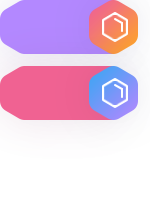
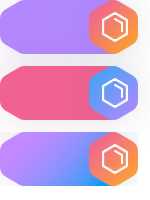
third badge fixed

Changed region(s): [[0.0, 0.66, 0.9333, 0.93]]

diff --git a/css/main.css b/css/main.css
@@ -1,1 +1,1 @@
-@font-face{font-family:"MarmeladRegular";src:url("../fonts/MarmeladRegular/MarmeladRegular.eot");src:url("../fonts/MarmeladRegular/MarmeladRegular.eot?#iefix") format("embedded-opentype"), url("../fonts/MarmeladRegular/MarmeladRegular.woff") format("woff"), url("../fonts/MarmeladRegular/MarmeladRegular.ttf") format("truetype");font-style:normal;font-weight:normal}@font-face{font-family:"LatoRegular";src:url("../fonts/LatoRegular/LatoRegular.eot");src:url("../fonts/LatoRegular/LatoRegular.eot?#iefix") format("embedded-opentype"), url("../fonts/LatoRegular/LatoRegular.woff") format("woff"), url("../fonts/LatoRegular/LatoRegular.ttf") format("truetype");font-style:normal;font-weight:normal}@font-face{font-family:"LatoLight";src:url("../fonts/LatoLight/LatoLight.eot");src:url("../fonts/LatoLight/LatoLight.eot?#iefix") format("embedded-opentype"), url("../fonts/LatoLight/LatoLight.woff") format("woff"), url("../fonts/LatoLight/LatoLight.ttf") format("truetype");font-style:normal;font-weight:normal}@font-face{font-family:"RobotoRegular";src:url("../fonts/RobotoRegular/RobotoRegular.eot");src:url("../fonts/RobotoRegular/RobotoRegular.eot?#iefix") format("embedded-opentype"), url("../fonts/RobotoRegular/RobotoRegular.woff") format("woff"), url("../fonts/RobotoRegular/RobotoRegular.ttf") format("truetype");font-style:normal;font-weight:normal}@font-face{font-family:"RobotoBold";src:url("../fonts/RobotoBold/RobotoBold.eot");src:url("../fonts/RobotoBold/RobotoBold.eot?#iefix") format("embedded-opentype"), url("../fonts/RobotoBold/RobotoBold.woff") format("woff"), url("../fonts/RobotoBold/RobotoBold.ttf") format("truetype");font-style:normal;font-weight:normal}*{margin:0px auto;padding:0px;outline:none;-webkit-box-sizing:border-box;-moz-box-sizing:border-box;box-sizing:border-box}body{font-size:16px;font-family:'LatoRegular'}article,aside,details,figcaption,figure,footer,header,hgroup,main,menu,nav,section,summary{display:block}.cfix:after,.cfix:before{content:" ";display:table}.cfix:after{clear:both}.container{max-width:1600px;width:100%;padding:0px 20px;position:relative}.container:after,.container:before{content:" ";display:table}.container:after{clear:both}.flex{display:-webkit-box;display:-webkit-flex;display:-ms-flexbox;display:flex}.row{position:relative}.row:after,.row:before{content:" ";display:table}.row:after{clear:both}fieldset,input[type=submit]{border:0;background:0 0}a,a:active,a:focus,a:hover,a:visited{color:inherit;text-decoration:none}a img{color:inherit;text-decoration:none}img{max-width:100%}ul{padding:0;margin:0}ul li{list-style:none}.bold,b,strong{font-weight:normal;font-family:'RobotoBold'}.fll{float:left}.flr{float:right}.displnone{display:none}.hidden{opacity:0;visibility:hidden}.visible{visibility:visible;opacity:1}.col-1{min-height:1px;float:left;width:8.333333333333334%}.col-2{min-height:1px;float:left;width:16.666666666666668%}.col-3{min-height:1px;float:left;width:25%}.col-4{min-height:1px;float:left;width:33.333333333333336%}.col-5{min-height:1px;float:left;width:41.666666666666664%}.col-6{min-height:1px;float:left;width:50%}.col-7{min-height:1px;float:left;width:58.333333333333336%}.col-8{min-height:1px;float:left;width:66.66666666666667%}.col-9{min-height:1px;float:left;width:75%}.col-10{min-height:1px;float:left;width:83.33333333333333%}.col-11{min-height:1px;float:left;width:91.66666666666667%}.col-12{min-height:1px;float:left;width:100%}.col-1-x{min-height:1px;float:left;width:8.333333333333334%}.col-2-x{min-height:1px;float:left;width:16.666666666666668%}.col-3-x{min-height:1px;float:left;width:25%}.col-4-x{min-height:1px;float:left;width:33.333333333333336%}.col-5-x{min-height:1px;float:left;width:41.666666666666664%}.col-6-x{min-height:1px;float:left;width:50%}.col-7-x{min-height:1px;float:left;width:58.333333333333336%}.col-8-x{min-height:1px;float:left;width:66.66666666666667%}.col-9-x{min-height:1px;float:left;width:75%}.col-10-x{min-height:1px;float:left;width:83.33333333333333%}.col-11-x{min-height:1px;float:left;width:91.66666666666667%}.col-12-x{min-height:1px;float:left;width:100%}@media (max-width:1600px){.container{max-width:1350px}}@media (max-width:1400px){.container{max-width:1140px}}@media (max-width:1200px){.container{max-width:980px}}@media (max-width:720px){.col-1{width:100%}.col-2{width:100%}.col-3{width:100%}.col-4{width:100%}.col-5{width:100%}.col-6{width:100%}.col-7{width:100%}.col-8{width:100%}.col-9{width:100%}.col-10{width:100%}.col-11{width:100%}.col-12{width:100%}}html{height:100%}body{height:100%}h1,h2,h3{font-weight:normal;font-family:'MarmeladRegular';color:#021b47}.job,.name,.subtitle,.text,.title,a,p{color:#021b47}button{cursor:pointer;color:#fff;font-family:'MarmeladRegular';border:0px}section.regular{padding:90px 0px}section h1,section h2{text-align:center;font-size:72px}section .subtitle{text-align:center;font-size:30px;font-family:'LatoRegular';padding:25px 0px 25px 0px}#first .width-wrapper{max-width:600px}#first header{padding:20px 0px}#first header .logo{-webkit-box-flex:1;-webkit-flex:1;-ms-flex:1;flex:1}#first header .menu{-webkit-box-flex:1;-webkit-flex:1;-ms-flex:1;flex:1}#first header .menu .width-wrapper{display:-webkit-box;display:-webkit-flex;display:-ms-flexbox;display:flex;-webkit-box-pack:justify;-webkit-justify-content:space-between;-ms-flex-pack:justify;justify-content:space-between;-webkit-box-align:center;-webkit-align-items:center;-ms-flex-align:center;align-items:center}#first header .menu a{margin:0;display:block;font-family:'RobotoBold'}#first header .menu img{margin:0;display:block}#first .about-container{-webkit-box-pack:center;-webkit-justify-content:center;-ms-flex-pack:center;justify-content:center;-webkit-box-align:center;-webkit-align-items:center;-ms-flex-align:center;align-items:center;padding:140px 0px 90px 0px}#first .about{-webkit-box-flex:1;-webkit-flex:1;-ms-flex:1;flex:1}#first .about h1{margin-bottom:60px;text-align:left}#first .about p{font-size:24px;margin-bottom:20px}#first .about button{margin-top:40px;font-size:28px}#first .mesh{-webkit-box-flex:1;-webkit-flex:1;-ms-flex:1;flex:1;text-align:center}#second{background:#021b47;text-align:center}#second .inner{padding:0px 80px}#second .title{font-size:44px;padding-top:25px;padding-bottom:35px}#second .title h3{color:#fff}#second .text{font-size:36px;color:#fff}#second .slick-arrow.slick-prev{background-position:0px -158px}#second .slick-arrow.slick-next{background-position:-56px -158px}#second .slider[active="2"] .slick-arrow.slick-prev{background-position:0px 0px}#second .slider[active="2"] .slick-arrow.slick-next{background-position:-56px 0px}#second .slider[active="3"] .slick-arrow.slick-prev{background-position:0px -316px}#second .slider[active="3"] .slick-arrow.slick-next{background-position:-56px -316px}#second .slick-slider .slick-dots li:nth-child(2).slick-active button:before{color:#f06292}#second .slick-slider .slick-dots li:nth-child(3).slick-active button:before{color:#42a5f5}#third{background:#f9f9f9}#third .slider-elem .inner{max-width:440px;padding:0px 20px}#third .slider-elem .wrapper{background:#fff;padding-bottom:35px;overflow:hidden;border-radius:12px;-webkit-box-shadow:0 0 50px rgba(2,27,71,0.07);box-shadow:0 0 50px rgba(2,27,71,0.07)}#third .slider-elem .image{width:100%;height:215px;background-repeat:no-repeat;background-size:cover}#third .slider-elem .content{max-width:330px;text-align:center;padding:0px 10px}#third .slider-elem .title{padding:30px 0px;font-size:24px;line-height:1.5}#third .slider-elem .text{font-size:18px;font-family:'LatoLight';line-height:1.8;margin-bottom:25px}#third .bee-button{font-size:28px;background-position:0px -68px}#third .bee-button.help-button-1{background-position:0px -68px}#third .bee-button.help-button-2{background-position:0px -141px}#third .bee-button.help-button-3{background-position:0px -211px}#fourth{background:#fff}#fourth .slider-elem .inner{max-width:440px;padding:0px 20px}#fourth .slider-elem .wrapper{background:#fff;padding-bottom:35px;overflow:hidden;border-radius:12px;-webkit-box-shadow:0 0 50px rgba(2,27,71,0.07);box-shadow:0 0 50px rgba(2,27,71,0.07)}#fourth .slider-elem .image{width:100%;height:215px;background-repeat:no-repeat;background-size:cover}#fourth .slider-elem .content{max-width:330px;text-align:center;padding:0px 10px}#fourth .slider-elem .title{padding:30px 0px;font-size:24px;line-height:1.5}#fourth .slider-elem .text{font-size:18px;font-family:'LatoLight';line-height:1.8;margin-bottom:25px}#fourth .slider-elem .action{display:-webkit-box;display:-webkit-flex;display:-ms-flexbox;display:flex;-webkit-box-align:center;-webkit-align-items:center;-ms-flex-align:center;align-items:center}#fourth .slider-elem .action p{-webkit-box-flex:1;-webkit-flex:1;-ms-flex:1;flex:1;font-size:18px}#fourth .slider-elem .action .honeycombs-count{-webkit-box-flex:1;-webkit-flex:1;-ms-flex:1;flex:1}#fourth .slider-elem .action .honeycombs-count .honeycombs-badge{display:-webkit-box;display:-webkit-flex;display:-ms-flexbox;display:flex;-webkit-box-align:center;-webkit-align-items:center;-ms-flex-align:center;align-items:center;padding-left:22px;font-size:28px;color:#fff;width:138px;height:54px;background:url("../images/badges.png") no-repeat;background-position:0px 0px}#fourth .slider-elem .action .honeycombs-count .honeycombs-badge.badge-2{background-position:0px -66px}#fiveth{background:#f9f9f9}#fiveth .subtitle{padding-bottom:45px}#fiveth .slider-elem .inner{text-align:center;height:170px;display:-webkit-box;display:-webkit-flex;display:-ms-flexbox;display:flex;-webkit-box-align:center;-webkit-align-items:center;-ms-flex-align:center;align-items:center}#fiveth .slider-elem .inner img{max-width:100%}#sixth{background:#fff}#sixth .slider-elem .inner{max-width:440px;padding:0px 20px}#sixth .slider-elem .wrapper{background:#fff;padding-bottom:35px;overflow:hidden;border-radius:12px;-webkit-box-shadow:0 0 50px rgba(2,27,71,0.07);box-shadow:0 0 50px rgba(2,27,71,0.07)}#sixth .slider-elem .image{width:100%;height:215px;background-repeat:no-repeat;background-size:cover}#sixth .slider-elem .content{max-width:330px;text-align:center;padding:0px 10px}#sixth .slider-elem .title{padding:30px 0px;font-size:24px;line-height:1.5}#sixth .slider-elem .text{font-size:18px;font-family:'LatoLight';line-height:1.8;margin-bottom:25px}#sixth .slider-elem .wrapper{padding-top:30px;text-align:center}#sixth .slider-elem .image-avatar{margin-bottom:15px}#sixth .slider-elem .name{font-size:24px}#sixth .slider-elem .job{font-size:18px;font-family:'LatoLight'}#seventh{background:url("../images/back-footer.jpg") no-repeat center;background-size:cover;text-align:center}#seventh h2{color:#fff;margin-bottom:60px}#seventh button{min-width:450px;min-height:85px;font-size:28px;background:url("../images/bee-buttons.png") no-repeat;background-position:0px -286px}footer{background:#021b47;padding:60px 0px}footer .width-wrapper{max-width:600px}footer .flex{-webkit-box-align:center;-webkit-align-items:center;-ms-flex-align:center;align-items:center}footer .logo{-webkit-box-flex:1;-webkit-flex:1;-ms-flex:1;flex:1}footer .logo .width-wrapper{display:-webkit-box;display:-webkit-flex;display:-ms-flexbox;display:flex;-webkit-box-align:center;-webkit-align-items:center;-ms-flex-align:center;align-items:center}footer .logo img{margin:0;padding-right:40px}footer .logo .copyright{margin:0;color:#fff;padding-right:20px;font-family:'RobotoRegular'}footer .menu{-webkit-box-flex:1;-webkit-flex:1;-ms-flex:1;flex:1}footer .menu .width-wrapper{display:-webkit-box;display:-webkit-flex;display:-ms-flexbox;display:flex;-webkit-box-pack:justify;-webkit-justify-content:space-between;-ms-flex-pack:justify;justify-content:space-between}footer .menu a{margin:0;display:block;font-family:'RobotoBold';color:#fff}.slider-rows-multiple img{max-width:100%}.slick-dotted.slick-slider{margin-bottom:130px}.slider-wrapper{padding:0px 100px}.slick-arrow{width:47px;height:134px}.slick-arrow,.slick-arrow:focus,.slick-arrow:hover{background:url("../images/arrows.png") no-repeat}.slick-arrow.slick-prev{left:-100px;background-position:0px -653px}.slick-arrow.slick-next{right:-100px;background-position:-56px -653px}.slick-arrow:before{display:none}.slick-slider .slick-dots{bottom:-125px}.slick-slider .slick-dots li{margin:0px 20px}.slick-slider .slick-dots li,.slick-slider .slick-dots li button,.slick-slider .slick-dots li button:before{height:27px;width:27px}.slick-slider .slick-dots li button{line-height:27px}.slick-slider .slick-dots li button:before{font-size:28px;opacity:1;color:#b8b8b8}.slick-slider .slick-dots li.slick-active button:before{color:#c289ff}.slick-slider .slick-list{padding:20px 0px}.bee-button{min-width:290px;min-height:55px;font-size:36px;background:url("../images/bee-buttons.png") no-repeat;background-position:0px 0px}
+@font-face{font-family:"MarmeladRegular";src:url("../fonts/MarmeladRegular/MarmeladRegular.eot");src:url("../fonts/MarmeladRegular/MarmeladRegular.eot?#iefix") format("embedded-opentype"), url("../fonts/MarmeladRegular/MarmeladRegular.woff") format("woff"), url("../fonts/MarmeladRegular/MarmeladRegular.ttf") format("truetype");font-style:normal;font-weight:normal}@font-face{font-family:"LatoRegular";src:url("../fonts/LatoRegular/LatoRegular.eot");src:url("../fonts/LatoRegular/LatoRegular.eot?#iefix") format("embedded-opentype"), url("../fonts/LatoRegular/LatoRegular.woff") format("woff"), url("../fonts/LatoRegular/LatoRegular.ttf") format("truetype");font-style:normal;font-weight:normal}@font-face{font-family:"LatoLight";src:url("../fonts/LatoLight/LatoLight.eot");src:url("../fonts/LatoLight/LatoLight.eot?#iefix") format("embedded-opentype"), url("../fonts/LatoLight/LatoLight.woff") format("woff"), url("../fonts/LatoLight/LatoLight.ttf") format("truetype");font-style:normal;font-weight:normal}@font-face{font-family:"RobotoRegular";src:url("../fonts/RobotoRegular/RobotoRegular.eot");src:url("../fonts/RobotoRegular/RobotoRegular.eot?#iefix") format("embedded-opentype"), url("../fonts/RobotoRegular/RobotoRegular.woff") format("woff"), url("../fonts/RobotoRegular/RobotoRegular.ttf") format("truetype");font-style:normal;font-weight:normal}@font-face{font-family:"RobotoBold";src:url("../fonts/RobotoBold/RobotoBold.eot");src:url("../fonts/RobotoBold/RobotoBold.eot?#iefix") format("embedded-opentype"), url("../fonts/RobotoBold/RobotoBold.woff") format("woff"), url("../fonts/RobotoBold/RobotoBold.ttf") format("truetype");font-style:normal;font-weight:normal}*{margin:0px auto;padding:0px;outline:none;-webkit-box-sizing:border-box;-moz-box-sizing:border-box;box-sizing:border-box}body{font-size:16px;font-family:'LatoRegular'}article,aside,details,figcaption,figure,footer,header,hgroup,main,menu,nav,section,summary{display:block}.cfix:after,.cfix:before{content:" ";display:table}.cfix:after{clear:both}.container{max-width:1600px;width:100%;padding:0px 20px;position:relative}.container:after,.container:before{content:" ";display:table}.container:after{clear:both}.flex{display:-webkit-box;display:-webkit-flex;display:-ms-flexbox;display:flex}.row{position:relative}.row:after,.row:before{content:" ";display:table}.row:after{clear:both}fieldset,input[type=submit]{border:0;background:0 0}a,a:active,a:focus,a:hover,a:visited{color:inherit;text-decoration:none}a img{color:inherit;text-decoration:none}img{max-width:100%}ul{padding:0;margin:0}ul li{list-style:none}.bold,b,strong{font-weight:normal;font-family:'RobotoBold'}.fll{float:left}.flr{float:right}.displnone{display:none}.hidden{opacity:0;visibility:hidden}.visible{visibility:visible;opacity:1}.col-1{min-height:1px;float:left;width:8.333333333333334%}.col-2{min-height:1px;float:left;width:16.666666666666668%}.col-3{min-height:1px;float:left;width:25%}.col-4{min-height:1px;float:left;width:33.333333333333336%}.col-5{min-height:1px;float:left;width:41.666666666666664%}.col-6{min-height:1px;float:left;width:50%}.col-7{min-height:1px;float:left;width:58.333333333333336%}.col-8{min-height:1px;float:left;width:66.66666666666667%}.col-9{min-height:1px;float:left;width:75%}.col-10{min-height:1px;float:left;width:83.33333333333333%}.col-11{min-height:1px;float:left;width:91.66666666666667%}.col-12{min-height:1px;float:left;width:100%}.col-1-x{min-height:1px;float:left;width:8.333333333333334%}.col-2-x{min-height:1px;float:left;width:16.666666666666668%}.col-3-x{min-height:1px;float:left;width:25%}.col-4-x{min-height:1px;float:left;width:33.333333333333336%}.col-5-x{min-height:1px;float:left;width:41.666666666666664%}.col-6-x{min-height:1px;float:left;width:50%}.col-7-x{min-height:1px;float:left;width:58.333333333333336%}.col-8-x{min-height:1px;float:left;width:66.66666666666667%}.col-9-x{min-height:1px;float:left;width:75%}.col-10-x{min-height:1px;float:left;width:83.33333333333333%}.col-11-x{min-height:1px;float:left;width:91.66666666666667%}.col-12-x{min-height:1px;float:left;width:100%}@media (max-width:1600px){.container{max-width:1350px}}@media (max-width:1400px){.container{max-width:1140px}}@media (max-width:1200px){.container{max-width:980px}}@media (max-width:720px){.col-1{width:100%}.col-2{width:100%}.col-3{width:100%}.col-4{width:100%}.col-5{width:100%}.col-6{width:100%}.col-7{width:100%}.col-8{width:100%}.col-9{width:100%}.col-10{width:100%}.col-11{width:100%}.col-12{width:100%}}html{height:100%}body{height:100%}h1,h2,h3{font-weight:normal;font-family:'MarmeladRegular';color:#021b47}.job,.name,.subtitle,.text,.title,a,p{color:#021b47}button{cursor:pointer;color:#fff;font-family:'MarmeladRegular';border:0px}section.regular{padding:90px 0px}section h1,section h2{text-align:center;font-size:72px}section .subtitle{text-align:center;font-size:30px;font-family:'LatoRegular';padding:25px 0px 25px 0px}#first .width-wrapper{max-width:600px}#first header{padding:20px 0px}#first header .logo{-webkit-box-flex:1;-webkit-flex:1;-ms-flex:1;flex:1}#first header .menu{-webkit-box-flex:1;-webkit-flex:1;-ms-flex:1;flex:1}#first header .menu .width-wrapper{display:-webkit-box;display:-webkit-flex;display:-ms-flexbox;display:flex;-webkit-box-pack:justify;-webkit-justify-content:space-between;-ms-flex-pack:justify;justify-content:space-between;-webkit-box-align:center;-webkit-align-items:center;-ms-flex-align:center;align-items:center}#first header .menu a{margin:0;display:block;font-family:'RobotoBold'}#first header .menu img{margin:0;display:block}#first .about-container{-webkit-box-pack:center;-webkit-justify-content:center;-ms-flex-pack:center;justify-content:center;-webkit-box-align:center;-webkit-align-items:center;-ms-flex-align:center;align-items:center;padding:140px 0px 90px 0px}#first .about{-webkit-box-flex:1;-webkit-flex:1;-ms-flex:1;flex:1}#first .about h1{margin-bottom:60px;text-align:left}#first .about p{font-size:24px;margin-bottom:20px}#first .about button{margin-top:40px;font-size:28px}#first .mesh{-webkit-box-flex:1;-webkit-flex:1;-ms-flex:1;flex:1;text-align:center}#second{background:#021b47;text-align:center}#second .inner{padding:0px 80px}#second .title{font-size:44px;padding-top:25px;padding-bottom:35px}#second .title h3{color:#fff}#second .text{font-size:36px;color:#fff}#second .slick-arrow.slick-prev{background-position:0px -158px}#second .slick-arrow.slick-next{background-position:-56px -158px}#second .slider[active="2"] .slick-arrow.slick-prev{background-position:0px 0px}#second .slider[active="2"] .slick-arrow.slick-next{background-position:-56px 0px}#second .slider[active="3"] .slick-arrow.slick-prev{background-position:0px -316px}#second .slider[active="3"] .slick-arrow.slick-next{background-position:-56px -316px}#second .slick-slider .slick-dots li:nth-child(2).slick-active button:before{color:#f06292}#second .slick-slider .slick-dots li:nth-child(3).slick-active button:before{color:#42a5f5}#third{background:#f9f9f9}#third .slider-elem .inner{max-width:440px;padding:0px 20px}#third .slider-elem .wrapper{background:#fff;padding-bottom:35px;overflow:hidden;border-radius:12px;-webkit-box-shadow:0 0 50px rgba(2,27,71,0.07);box-shadow:0 0 50px rgba(2,27,71,0.07)}#third .slider-elem .image{width:100%;height:215px;background-repeat:no-repeat;background-size:cover}#third .slider-elem .content{max-width:330px;text-align:center;padding:0px 10px}#third .slider-elem .title{padding:30px 0px;font-size:24px;line-height:1.5}#third .slider-elem .text{font-size:18px;font-family:'LatoLight';line-height:1.8;margin-bottom:25px}#third .bee-button{font-size:28px;background-position:0px -68px}#third .bee-button.help-button-1{background-position:0px -68px}#third .bee-button.help-button-2{background-position:0px -141px}#third .bee-button.help-button-3{background-position:0px -211px}#fourth{background:#fff}#fourth .slider-elem .inner{max-width:440px;padding:0px 20px}#fourth .slider-elem .wrapper{background:#fff;padding-bottom:35px;overflow:hidden;border-radius:12px;-webkit-box-shadow:0 0 50px rgba(2,27,71,0.07);box-shadow:0 0 50px rgba(2,27,71,0.07)}#fourth .slider-elem .image{width:100%;height:215px;background-repeat:no-repeat;background-size:cover}#fourth .slider-elem .content{max-width:330px;text-align:center;padding:0px 10px}#fourth .slider-elem .title{padding:30px 0px;font-size:24px;line-height:1.5}#fourth .slider-elem .text{font-size:18px;font-family:'LatoLight';line-height:1.8;margin-bottom:25px}#fourth .slider-elem .action{display:-webkit-box;display:-webkit-flex;display:-ms-flexbox;display:flex;-webkit-box-align:center;-webkit-align-items:center;-ms-flex-align:center;align-items:center}#fourth .slider-elem .action p{-webkit-box-flex:1;-webkit-flex:1;-ms-flex:1;flex:1;font-size:18px}#fourth .slider-elem .action .honeycombs-count{-webkit-box-flex:1;-webkit-flex:1;-ms-flex:1;flex:1}#fourth .slider-elem .action .honeycombs-count .honeycombs-badge{display:-webkit-box;display:-webkit-flex;display:-ms-flexbox;display:flex;-webkit-box-align:center;-webkit-align-items:center;-ms-flex-align:center;align-items:center;padding-left:22px;font-size:28px;color:#fff;width:138px;height:54px;background:url("../images/badges.png") no-repeat;background-position:0px 0px}#fourth .slider-elem .action .honeycombs-count .honeycombs-badge.badge-2{background-position:0px -66px}#fourth .slider-elem .action .honeycombs-count .honeycombs-badge.badge-3{background-position:0px -133px}#fiveth{background:#f9f9f9}#fiveth .subtitle{padding-bottom:45px}#fiveth .slider-elem .inner{text-align:center;height:170px;display:-webkit-box;display:-webkit-flex;display:-ms-flexbox;display:flex;-webkit-box-align:center;-webkit-align-items:center;-ms-flex-align:center;align-items:center}#fiveth .slider-elem .inner img{max-width:100%}#sixth{background:#fff}#sixth .slider-elem .inner{max-width:440px;padding:0px 20px}#sixth .slider-elem .wrapper{background:#fff;padding-bottom:35px;overflow:hidden;border-radius:12px;-webkit-box-shadow:0 0 50px rgba(2,27,71,0.07);box-shadow:0 0 50px rgba(2,27,71,0.07)}#sixth .slider-elem .image{width:100%;height:215px;background-repeat:no-repeat;background-size:cover}#sixth .slider-elem .content{max-width:330px;text-align:center;padding:0px 10px}#sixth .slider-elem .title{padding:30px 0px;font-size:24px;line-height:1.5}#sixth .slider-elem .text{font-size:18px;font-family:'LatoLight';line-height:1.8;margin-bottom:25px}#sixth .slider-elem .wrapper{padding-top:30px;text-align:center}#sixth .slider-elem .image-avatar{margin-bottom:15px}#sixth .slider-elem .name{font-size:24px}#sixth .slider-elem .job{font-size:18px;font-family:'LatoLight'}#seventh{background:url("../images/back-footer.jpg") no-repeat center;background-size:cover;text-align:center}#seventh h2{color:#fff;margin-bottom:60px}#seventh button{min-width:450px;min-height:85px;font-size:28px;background:url("../images/bee-buttons.png") no-repeat;background-position:0px -286px}footer{background:#021b47;padding:60px 0px}footer .width-wrapper{max-width:600px}footer .flex{-webkit-box-align:center;-webkit-align-items:center;-ms-flex-align:center;align-items:center}footer .logo{-webkit-box-flex:1;-webkit-flex:1;-ms-flex:1;flex:1}footer .logo .width-wrapper{display:-webkit-box;display:-webkit-flex;display:-ms-flexbox;display:flex;-webkit-box-align:center;-webkit-align-items:center;-ms-flex-align:center;align-items:center}footer .logo img{margin:0;padding-right:40px}footer .logo .copyright{margin:0;color:#fff;padding-right:20px;font-family:'RobotoRegular'}footer .menu{-webkit-box-flex:1;-webkit-flex:1;-ms-flex:1;flex:1}footer .menu .width-wrapper{display:-webkit-box;display:-webkit-flex;display:-ms-flexbox;display:flex;-webkit-box-pack:justify;-webkit-justify-content:space-between;-ms-flex-pack:justify;justify-content:space-between}footer .menu a{margin:0;display:block;font-family:'RobotoBold';color:#fff}.slider-rows-multiple img{max-width:100%}.slick-dotted.slick-slider{margin-bottom:130px}.slider-wrapper{padding:0px 100px}.slick-arrow{width:47px;height:134px}.slick-arrow,.slick-arrow:focus,.slick-arrow:hover{background:url("../images/arrows.png") no-repeat}.slick-arrow.slick-prev{left:-100px;background-position:0px -653px}.slick-arrow.slick-next{right:-100px;background-position:-56px -653px}.slick-arrow:before{display:none}.slick-slider .slick-dots{bottom:-125px}.slick-slider .slick-dots li{margin:0px 20px}.slick-slider .slick-dots li,.slick-slider .slick-dots li button,.slick-slider .slick-dots li button:before{height:27px;width:27px}.slick-slider .slick-dots li button{line-height:27px}.slick-slider .slick-dots li button:before{font-size:28px;opacity:1;color:#b8b8b8}.slick-slider .slick-dots li.slick-active button:before{color:#c289ff}.slick-slider .slick-list{padding:20px 0px}.bee-button{min-width:290px;min-height:55px;font-size:36px;background:url("../images/bee-buttons.png") no-repeat;background-position:0px 0px}
